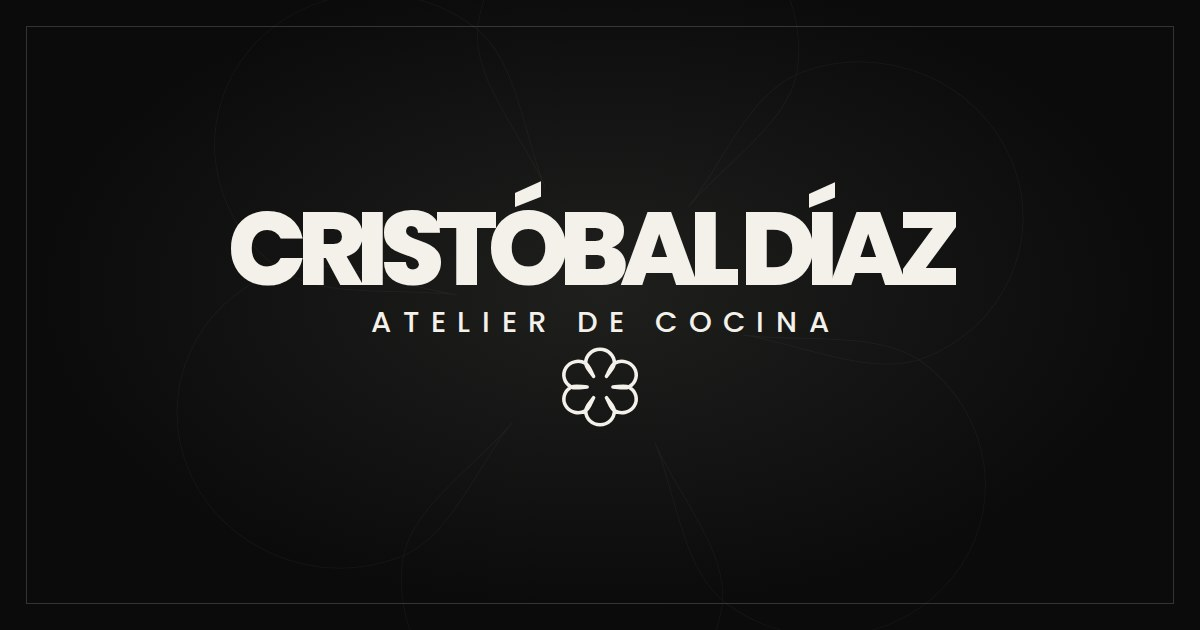
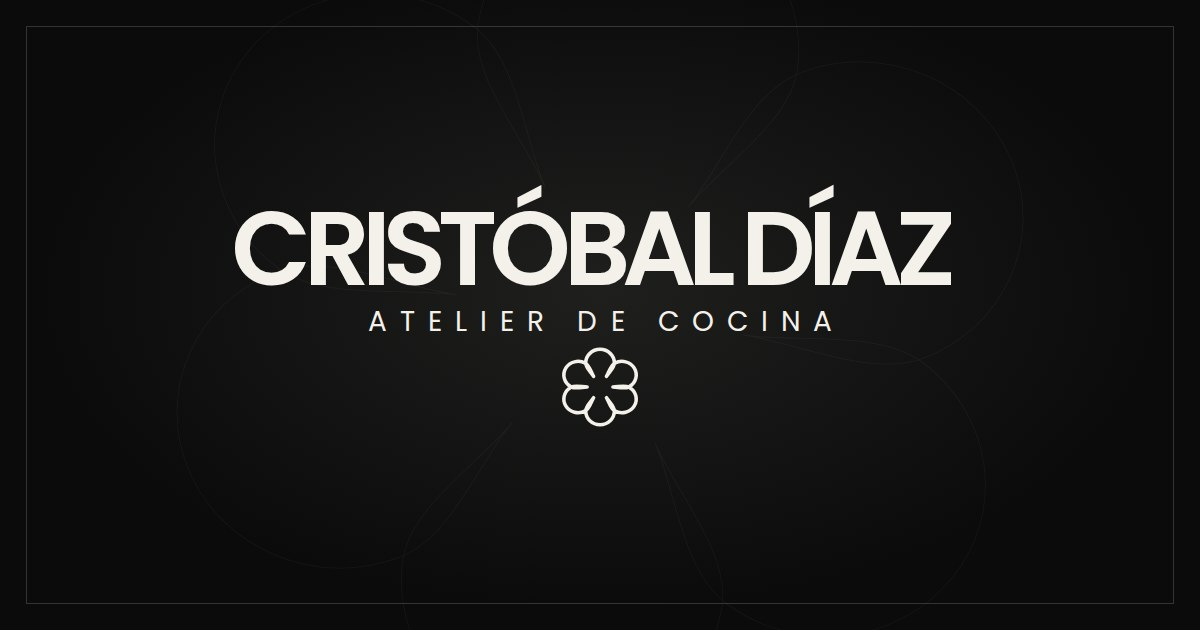
Logotipo: pesos medidos en los archivos del cliente
El grosor de los trazos en los dos JPG oficiales corresponde a Poppins
SemiBold (600), no a ExtraBold: con 800 las letras se juntaban y el
logotipo se veía más pesado que el original.

- Nombre en 600 con espaciado de -0.075em y espacio entre palabras de
  -0.043em: ancho, separación entre palabras y huecos entre letras
  quedan dentro del 1-2 % de los originales.
- "Atelier de Cocina" en Regular (400) y la línea de cada especialidad
  en Medium (500), con tamaños, espaciado y rayas reajustados.
- En la sub-marca el nombre va centrado, como en su archivo.
- Contacto: el nombre queda alineado con el texto de la columna.
- Se quita Poppins 800 (solo la usaba el nombre); se precarga la 600.
- Imagen para compartir (og.jpg) regenerada con los nuevos pesos.

Claude-Session: https://claude.ai/code/session_015ep1QtErzAkJH88LBXcrpw

Changed region(s): [[0.185, 0.2714, 0.8017, 0.4524], [0.4933, 0.4825, 0.7092, 0.5429], [0.3083, 0.4825, 0.4625, 0.5429]]

diff --git a/cristobal-diaz/publico/assets/estilos.css b/cristobal-diaz/publico/assets/estilos.css
@@ -23,13 +23,6 @@
   font-display: swap;
 }
 @font-face {
-  font-family: 'Poppins';
-  src: url('fuentes/poppins-800.woff2') format('woff2');
-  font-weight: 800;
-  font-style: normal;
-  font-display: swap;
-}
-@font-face {
   font-family: 'Cormorant Garamond';
   src: url('fuentes/cormorant-garamond.woff2') format('woff2');
   font-weight: 300 700;
@@ -198,20 +191,22 @@ textarea {
   text-align: center;
   text-decoration: none;
 }
-/* Proporciones medidas sobre el logotipo oficial (JPG del cliente). El nombre va un poco a la
-   izquierda del eje del lema y la flor, igual que en el original. */
+/* Proporciones medidas sobre los logotipos oficiales (JPG del cliente): el nombre en Poppins SemiBold
+   con espaciado cerrado y "Atelier de Cocina" en Regular muy abierto. En el logotipo matriz el nombre
+   va un poco a la izquierda del eje del lema y la flor, igual que en el original. */
 .lockup__nombre {
   margin-left: -0.2em;
-  font: 800 1em/1 var(--sans);
-  letter-spacing: -0.094em;
+  font: 600 1em/1 var(--sans);
+  letter-spacing: -0.075em;
+  word-spacing: -0.043em;
   text-transform: uppercase;
   white-space: nowrap;
 }
 .lockup__sub {
-  margin-top: 0.21em;
-  padding-left: 0.4em;
-  font: 500 0.28em/1 var(--sans);
-  letter-spacing: 0.4em;
+  margin-top: 0.234em;
+  padding-left: 0.47em;
+  font: 400 0.268em/1 var(--sans);
+  letter-spacing: 0.47em;
   text-transform: uppercase;
   white-space: nowrap;
 }
@@ -221,33 +216,36 @@ textarea {
   margin-top: 0.11em;
   stroke-width: 1.5;
 }
-/* Sub-marca: nombre, "Atelier de Cocina" y la línea de la especialidad entre rayas. */
+/* Sub-marca: nombre, "Atelier de Cocina" y la línea de la especialidad entre rayas, todo centrado.
+   El margen negativo del nombre compensa el espaciado negativo que queda después de la última letra. */
+.lockup--linea .lockup__nombre {
+  margin-left: -0.075em;
+}
 .lockup--linea .lockup__sub {
   margin-top: 0.26em;
-  padding-left: 0.42em;
+  padding-left: 0.394em;
   font-size: 0.318em;
-  font-weight: 400;
-  letter-spacing: 0.42em;
+  letter-spacing: 0.394em;
 }
 .lockup__linea {
   display: flex;
   align-items: center;
-  gap: 0.8em;
-  margin-top: 1.72em;
-  font: 600 0.226em/1 var(--sans);
-  letter-spacing: 0.27em;
+  gap: 0.83em;
+  margin-top: 1.62em;
+  font: 500 0.242em/1 var(--sans);
+  letter-spacing: 0.2em;
   text-transform: uppercase;
   white-space: nowrap;
 }
 .lockup__linea span {
-  margin-right: -0.27em;
+  margin-right: -0.2em;
 }
 .lockup__linea::before,
 .lockup__linea::after {
   content: '';
   flex: none;
-  width: 1.6em;
-  height: 0.085em;
+  width: 1.58em;
+  height: 0.11em;
   background: currentColor;
 }
 
@@ -369,14 +367,12 @@ textarea {
     opacity 0.4s var(--curva),
     visibility 0.4s;
 }
-/* A 20 px el espaciado del original junta "CRISTÓBAL" con "DÍAZ": se abre un poco (ajuste óptico). */
-.marca .lockup__nombre {
-  letter-spacing: -0.07em;
-}
+/* A 20 px "Atelier de Cocina" mide 7 px: un poco más grande y en Medium para que se lea (ajuste óptico). */
 .marca .lockup__sub {
   margin-top: 0.62em;
   padding-left: 0.42em;
   font-size: 0.34em;
+  font-weight: 500;
   letter-spacing: 0.42em;
 }
 .js .cabecera--portada:not(.cabecera--con-marca) .marca {
@@ -1728,6 +1724,10 @@ textarea {
 .contacto__lockup {
   align-items: flex-start;
   font-size: 1.75rem;
+}
+/* Alineado a la izquierda: el borde de la C coincide con el del texto de abajo. */
+.contacto__lockup .lockup__nombre {
+  margin-left: -0.04em;
 }
 .contacto__lockup .lockup__sub {
   padding-left: 0;

diff --git a/cristobal-diaz/recursos/estilos.css b/cristobal-diaz/recursos/estilos.css
@@ -23,13 +23,6 @@
   font-display: swap;
 }
 @font-face {
-  font-family: 'Poppins';
-  src: url('fuentes/poppins-800.woff2') format('woff2');
-  font-weight: 800;
-  font-style: normal;
-  font-display: swap;
-}
-@font-face {
   font-family: 'Cormorant Garamond';
   src: url('fuentes/cormorant-garamond.woff2') format('woff2');
   font-weight: 300 700;
@@ -198,20 +191,22 @@ textarea {
   text-align: center;
   text-decoration: none;
 }
-/* Proporciones medidas sobre el logotipo oficial (JPG del cliente). El nombre va un poco a la
-   izquierda del eje del lema y la flor, igual que en el original. */
+/* Proporciones medidas sobre los logotipos oficiales (JPG del cliente): el nombre en Poppins SemiBold
+   con espaciado cerrado y "Atelier de Cocina" en Regular muy abierto. En el logotipo matriz el nombre
+   va un poco a la izquierda del eje del lema y la flor, igual que en el original. */
 .lockup__nombre {
   margin-left: -0.2em;
-  font: 800 1em/1 var(--sans);
-  letter-spacing: -0.094em;
+  font: 600 1em/1 var(--sans);
+  letter-spacing: -0.075em;
+  word-spacing: -0.043em;
   text-transform: uppercase;
   white-space: nowrap;
 }
 .lockup__sub {
-  margin-top: 0.21em;
-  padding-left: 0.4em;
-  font: 500 0.28em/1 var(--sans);
-  letter-spacing: 0.4em;
+  margin-top: 0.234em;
+  padding-left: 0.47em;
+  font: 400 0.268em/1 var(--sans);
+  letter-spacing: 0.47em;
   text-transform: uppercase;
   white-space: nowrap;
 }
@@ -221,33 +216,36 @@ textarea {
   margin-top: 0.11em;
   stroke-width: 1.5;
 }
-/* Sub-marca: nombre, "Atelier de Cocina" y la línea de la especialidad entre rayas. */
+/* Sub-marca: nombre, "Atelier de Cocina" y la línea de la especialidad entre rayas, todo centrado.
+   El margen negativo del nombre compensa el espaciado negativo que queda después de la última letra. */
+.lockup--linea .lockup__nombre {
+  margin-left: -0.075em;
+}
 .lockup--linea .lockup__sub {
   margin-top: 0.26em;
-  padding-left: 0.42em;
+  padding-left: 0.394em;
   font-size: 0.318em;
-  font-weight: 400;
-  letter-spacing: 0.42em;
+  letter-spacing: 0.394em;
 }
 .lockup__linea {
   display: flex;
   align-items: center;
-  gap: 0.8em;
-  margin-top: 1.72em;
-  font: 600 0.226em/1 var(--sans);
-  letter-spacing: 0.27em;
+  gap: 0.83em;
+  margin-top: 1.62em;
+  font: 500 0.242em/1 var(--sans);
+  letter-spacing: 0.2em;
   text-transform: uppercase;
   white-space: nowrap;
 }
 .lockup__linea span {
-  margin-right: -0.27em;
+  margin-right: -0.2em;
 }
 .lockup__linea::before,
 .lockup__linea::after {
   content: '';
   flex: none;
-  width: 1.6em;
-  height: 0.085em;
+  width: 1.58em;
+  height: 0.11em;
   background: currentColor;
 }
 
@@ -369,14 +367,12 @@ textarea {
     opacity 0.4s var(--curva),
     visibility 0.4s;
 }
-/* A 20 px el espaciado del original junta "CRISTÓBAL" con "DÍAZ": se abre un poco (ajuste óptico). */
-.marca .lockup__nombre {
-  letter-spacing: -0.07em;
-}
+/* A 20 px "Atelier de Cocina" mide 7 px: un poco más grande y en Medium para que se lea (ajuste óptico). */
 .marca .lockup__sub {
   margin-top: 0.62em;
   padding-left: 0.42em;
   font-size: 0.34em;
+  font-weight: 500;
   letter-spacing: 0.42em;
 }
 .js .cabecera--portada:not(.cabecera--con-marca) .marca {
@@ -1728,6 +1724,10 @@ textarea {
 .contacto__lockup {
   align-items: flex-start;
   font-size: 1.75rem;
+}
+/* Alineado a la izquierda: el borde de la C coincide con el del texto de abajo. */
+.contacto__lockup .lockup__nombre {
+  margin-left: -0.04em;
 }
 .contacto__lockup .lockup__sub {
   padding-left: 0;

diff --git a/cristobal-diaz/publico/404.html b/cristobal-diaz/publico/404.html
@@ -17,9 +17,9 @@
 <link rel="icon" href="/assets/img/favicon.svg" type="image/svg+xml">
 <link rel="apple-touch-icon" href="/assets/img/apple-touch-icon.png">
 <link rel="preload" href="/assets/fuentes/poppins-400.woff2" as="font" type="font/woff2" crossorigin>
-<link rel="preload" href="/assets/fuentes/poppins-800.woff2" as="font" type="font/woff2" crossorigin>
+<link rel="preload" href="/assets/fuentes/poppins-600.woff2" as="font" type="font/woff2" crossorigin>
 <link rel="preload" href="/assets/fuentes/cormorant-garamond.woff2" as="font" type="font/woff2" crossorigin>
-<link rel="stylesheet" href="/assets/estilos.css?v=51ba76e051">
+<link rel="stylesheet" href="/assets/estilos.css?v=34d3d0ad5c">
 <script>document.documentElement.classList.add('js')</script>
 <script src="/assets/pedido.js?v=f5adb3eba2" defer></script>
 <script src="/assets/sitio.js?v=fd5c0b81c6" defer></script>

diff --git a/cristobal-diaz/publico/alta-pasteleria.html b/cristobal-diaz/publico/alta-pasteleria.html
@@ -17,9 +17,9 @@
 <link rel="icon" href="assets/img/favicon.svg" type="image/svg+xml">
 <link rel="apple-touch-icon" href="assets/img/apple-touch-icon.png">
 <link rel="preload" href="assets/fuentes/poppins-400.woff2" as="font" type="font/woff2" crossorigin>
-<link rel="preload" href="assets/fuentes/poppins-800.woff2" as="font" type="font/woff2" crossorigin>
+<link rel="preload" href="assets/fuentes/poppins-600.woff2" as="font" type="font/woff2" crossorigin>
 <link rel="preload" href="assets/fuentes/cormorant-garamond.woff2" as="font" type="font/woff2" crossorigin>
-<link rel="stylesheet" href="assets/estilos.css?v=51ba76e051">
+<link rel="stylesheet" href="assets/estilos.css?v=34d3d0ad5c">
 <script>document.documentElement.classList.add('js')</script>
 <script src="assets/pedido.js?v=f5adb3eba2" defer></script>
 <script src="assets/sitio.js?v=fd5c0b81c6" defer></script>

diff --git a/cristobal-diaz/publico/asesorias.html b/cristobal-diaz/publico/asesorias.html
@@ -17,9 +17,9 @@
 <link rel="icon" href="assets/img/favicon.svg" type="image/svg+xml">
 <link rel="apple-touch-icon" href="assets/img/apple-touch-icon.png">
 <link rel="preload" href="assets/fuentes/poppins-400.woff2" as="font" type="font/woff2" crossorigin>
-<link rel="preload" href="assets/fuentes/poppins-800.woff2" as="font" type="font/woff2" crossorigin>
+<link rel="preload" href="assets/fuentes/poppins-600.woff2" as="font" type="font/woff2" crossorigin>
 <link rel="preload" href="assets/fuentes/cormorant-garamond.woff2" as="font" type="font/woff2" crossorigin>
-<link rel="stylesheet" href="assets/estilos.css?v=51ba76e051">
+<link rel="stylesheet" href="assets/estilos.css?v=34d3d0ad5c">
 <script>document.documentElement.classList.add('js')</script>
 <script src="assets/pedido.js?v=f5adb3eba2" defer></script>
 <script src="assets/sitio.js?v=fd5c0b81c6" defer></script>

diff --git a/cristobal-diaz/publico/aviso-de-privacidad.html b/cristobal-diaz/publico/aviso-de-privacidad.html
@@ -17,9 +17,9 @@
 <link rel="icon" href="assets/img/favicon.svg" type="image/svg+xml">
 <link rel="apple-touch-icon" href="assets/img/apple-touch-icon.png">
 <link rel="preload" href="assets/fuentes/poppins-400.woff2" as="font" type="font/woff2" crossorigin>
-<link rel="preload" href="assets/fuentes/poppins-800.woff2" as="font" type="font/woff2" crossorigin>
+<link rel="preload" href="assets/fuentes/poppins-600.woff2" as="font" type="font/woff2" crossorigin>
 <link rel="preload" href="assets/fuentes/cormorant-garamond.woff2" as="font" type="font/woff2" crossorigin>
-<link rel="stylesheet" href="assets/estilos.css?v=51ba76e051">
+<link rel="stylesheet" href="assets/estilos.css?v=34d3d0ad5c">
 <script>document.documentElement.classList.add('js')</script>
 <script src="assets/pedido.js?v=f5adb3eba2" defer></script>
 <script src="assets/sitio.js?v=fd5c0b81c6" defer></script>

diff --git a/cristobal-diaz/publico/cheesecake-y-galletas.html b/cristobal-diaz/publico/cheesecake-y-galletas.html
@@ -17,9 +17,9 @@
 <link rel="icon" href="assets/img/favicon.svg" type="image/svg+xml">
 <link rel="apple-touch-icon" href="assets/img/apple-touch-icon.png">
 <link rel="preload" href="assets/fuentes/poppins-400.woff2" as="font" type="font/woff2" crossorigin>
-<link rel="preload" href="assets/fuentes/poppins-800.woff2" as="font" type="font/woff2" crossorigin>
+<link rel="preload" href="assets/fuentes/poppins-600.woff2" as="font" type="font/woff2" crossorigin>
 <link rel="preload" href="assets/fuentes/cormorant-garamond.woff2" as="font" type="font/woff2" crossorigin>
-<link rel="stylesheet" href="assets/estilos.css?v=51ba76e051">
+<link rel="stylesheet" href="assets/estilos.css?v=34d3d0ad5c">
 <script>document.documentElement.classList.add('js')</script>
 <script src="assets/pedido.js?v=f5adb3eba2" defer></script>
 <script src="assets/sitio.js?v=fd5c0b81c6" defer></script>

diff --git a/cristobal-diaz/publico/chef.html b/cristobal-diaz/publico/chef.html
@@ -17,9 +17,9 @@
 <link rel="icon" href="assets/img/favicon.svg" type="image/svg+xml">
 <link rel="apple-touch-icon" href="assets/img/apple-touch-icon.png">
 <link rel="preload" href="assets/fuentes/poppins-400.woff2" as="font" type="font/woff2" crossorigin>
-<link rel="preload" href="assets/fuentes/poppins-800.woff2" as="font" type="font/woff2" crossorigin>
+<link rel="preload" href="assets/fuentes/poppins-600.woff2" as="font" type="font/woff2" crossorigin>
 <link rel="preload" href="assets/fuentes/cormorant-garamond.woff2" as="font" type="font/woff2" crossorigin>
-<link rel="stylesheet" href="assets/estilos.css?v=51ba76e051">
+<link rel="stylesheet" href="assets/estilos.css?v=34d3d0ad5c">
 <script>document.documentElement.classList.add('js')</script>
 <script src="assets/pedido.js?v=f5adb3eba2" defer></script>
 <script src="assets/sitio.js?v=fd5c0b81c6" defer></script>

diff --git a/cristobal-diaz/publico/contacto.html b/cristobal-diaz/publico/contacto.html
@@ -17,9 +17,9 @@
 <link rel="icon" href="assets/img/favicon.svg" type="image/svg+xml">
 <link rel="apple-touch-icon" href="assets/img/apple-touch-icon.png">
 <link rel="preload" href="assets/fuentes/poppins-400.woff2" as="font" type="font/woff2" crossorigin>
-<link rel="preload" href="assets/fuentes/poppins-800.woff2" as="font" type="font/woff2" crossorigin>
+<link rel="preload" href="assets/fuentes/poppins-600.woff2" as="font" type="font/woff2" crossorigin>
 <link rel="preload" href="assets/fuentes/cormorant-garamond.woff2" as="font" type="font/woff2" crossorigin>
-<link rel="stylesheet" href="assets/estilos.css?v=51ba76e051">
+<link rel="stylesheet" href="assets/estilos.css?v=34d3d0ad5c">
 <script>document.documentElement.classList.add('js')</script>
 <script src="assets/pedido.js?v=f5adb3eba2" defer></script>
 <script src="assets/sitio.js?v=fd5c0b81c6" defer></script>

diff --git a/cristobal-diaz/publico/cursos.html b/cristobal-diaz/publico/cursos.html
@@ -17,9 +17,9 @@
 <link rel="icon" href="assets/img/favicon.svg" type="image/svg+xml">
 <link rel="apple-touch-icon" href="assets/img/apple-touch-icon.png">
 <link rel="preload" href="assets/fuentes/poppins-400.woff2" as="font" type="font/woff2" crossorigin>
-<link rel="preload" href="assets/fuentes/poppins-800.woff2" as="font" type="font/woff2" crossorigin>
+<link rel="preload" href="assets/fuentes/poppins-600.woff2" as="font" type="font/woff2" crossorigin>
 <link rel="preload" href="assets/fuentes/cormorant-garamond.woff2" as="font" type="font/woff2" crossorigin>
-<link rel="stylesheet" href="assets/estilos.css?v=51ba76e051">
+<link rel="stylesheet" href="assets/estilos.css?v=34d3d0ad5c">
 <script>document.documentElement.classList.add('js')</script>
 <script src="assets/pedido.js?v=f5adb3eba2" defer></script>
 <script src="assets/sitio.js?v=fd5c0b81c6" defer></script>

diff --git a/cristobal-diaz/publico/index.html b/cristobal-diaz/publico/index.html
@@ -17,9 +17,9 @@
 <link rel="icon" href="assets/img/favicon.svg" type="image/svg+xml">
 <link rel="apple-touch-icon" href="assets/img/apple-touch-icon.png">
 <link rel="preload" href="assets/fuentes/poppins-400.woff2" as="font" type="font/woff2" crossorigin>
-<link rel="preload" href="assets/fuentes/poppins-800.woff2" as="font" type="font/woff2" crossorigin>
+<link rel="preload" href="assets/fuentes/poppins-600.woff2" as="font" type="font/woff2" crossorigin>
 <link rel="preload" href="assets/fuentes/cormorant-garamond.woff2" as="font" type="font/woff2" crossorigin>
-<link rel="stylesheet" href="assets/estilos.css?v=51ba76e051">
+<link rel="stylesheet" href="assets/estilos.css?v=34d3d0ad5c">
 <script>document.documentElement.classList.add('js')</script>
 <script src="assets/pedido.js?v=f5adb3eba2" defer></script>
 <script src="assets/sitio.js?v=fd5c0b81c6" defer></script>

diff --git a/cristobal-diaz/publico/mystery-guest.html b/cristobal-diaz/publico/mystery-guest.html
@@ -17,9 +17,9 @@
 <link rel="icon" href="assets/img/favicon.svg" type="image/svg+xml">
 <link rel="apple-touch-icon" href="assets/img/apple-touch-icon.png">
 <link rel="preload" href="assets/fuentes/poppins-400.woff2" as="font" type="font/woff2" crossorigin>
-<link rel="preload" href="assets/fuentes/poppins-800.woff2" as="font" type="font/woff2" crossorigin>
+<link rel="preload" href="assets/fuentes/poppins-600.woff2" as="font" type="font/woff2" crossorigin>
 <link rel="preload" href="assets/fuentes/cormorant-garamond.woff2" as="font" type="font/woff2" crossorigin>
-<link rel="stylesheet" href="assets/estilos.css?v=51ba76e051">
+<link rel="stylesheet" href="assets/estilos.css?v=34d3d0ad5c">
 <script>document.documentElement.classList.add('js')</script>
 <script src="assets/pedido.js?v=f5adb3eba2" defer></script>
 <script src="assets/sitio.js?v=fd5c0b81c6" defer></script>
